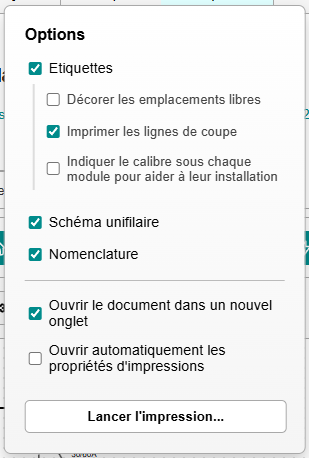
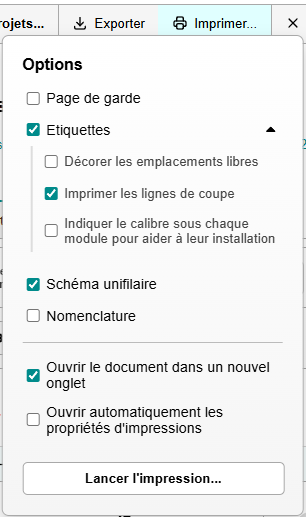
Bugs corrections and new github workflow for dev branch

diff --git a/src/App.jsx b/src/App.jsx
@@ -48,6 +48,8 @@ import cancelIcon from "./assets/cancel.svg";
 import info2Icon from "./assets/info2.svg";
 import numbersIcon from "./assets/numbers.svg";
 import themeSettingsIcon from "./assets/theme_settings.svg";
+import caretDownIcon from "./assets/caret-down.svg";
+import caretUpIcon from "./assets/caret-up.svg";
 
 import Editor from "./Editor.jsx";
 import NewProjectEditor from "./NewProjectEditor.jsx";
@@ -76,6 +78,7 @@ function App() {
     const [freeSpaceMessage, setFreeSpaceMessage] = useState("");
     const [clipboard, setClipboard] = useState(null);
     const [clipboardMode, setClipboardMode] = useState(null);
+    const [subMenus, setSubMenus] = useState({printLabelsOpened: false});
 
     const UIFrozen = useMemo(() => clipboard !== null, [clipboard]);
 
@@ -508,6 +511,7 @@ function App() {
         setPrintOptions({...defaultPrintOptions});
         setDocumentTitle(name);
         setTab(1);
+        setSubMenus(old => ({...old, printLabelsOpened: false}));
         scrollToProject();
 
         stats_count('new');
@@ -522,6 +526,7 @@ function App() {
         setDocumentTitle(defaultProjectName);
         setPrintOptions({...defaultPrintOptions});
         setTheme(defaultTheme);
+        setSubMenus(old => ({...old, printLabelsOpened: false}));
 
         createProject(defaultProjectName, defaultStepsPerRows, defaultNpRows, defaultHRow);
     }, [createProject, defaultHRow, defaultNpRows, defaultProjectName, defaultStepsPerRows, defaultTheme]);
@@ -610,6 +615,7 @@ function App() {
                     setClipboardMode(null);
                     setPrintOptions({...defaultPrintOptions});
                     setTab(1);
+                    setSubMenus(old => ({...old, printLabelsOpened: false}));
                     scrollToProject();
 
                     stats_count('import');
@@ -1465,7 +1471,7 @@ function App() {
                                    }))}/>
                             <label htmlFor="print_firstPage">Page de garde</label>
                         </div>
-                        <div className="dropdown_item head" title="Imprimer les étiquettes">
+                        <div className="dropdown_item head parent" title="Imprimer les étiquettes">
                             <input id="print_labels" name="print_labels" type="checkbox"
                                    checked={printOptions.labels}
                                    onChange={(e) => setPrintOptions((old) => ({
@@ -1473,41 +1479,49 @@ function App() {
                                        labels: e.target.checked
                                    }))}/>
                             <label htmlFor="print_labels">Etiquettes</label>
+                            {printOptions.labels &&
+                                <img src={subMenus.printLabelsOpened ? caretUpIcon : caretDownIcon} width={16}
+                                     height={16} alt={"Menu"} onClick={() => setSubMenus(old => ({
+                                    ...old,
+                                    printLabelsOpened: !old.printLabelsOpened
+                                }))}/>}
                         </div>
-                        <div className="dropdown_item"
-                             title="Imprimer la décoration sur les emplacements libres de chaque rangée d'étiquettes">
-                            <input id="print_free" name="print_free" type="checkbox"
-                                   checked={printOptions.freeModules}
-                                   onChange={(e) => setPrintOptions((old) => ({
-                                       ...old,
-                                       freeModules: e.target.checked
-                                   }))} disabled={!printOptions.labels}/>
-                            <label htmlFor="print_free">Décorer les emplacements libres</label>
-                        </div>
-                        <div className="dropdown_item"
-                             title="Imprimer les lignes de coupe pour cisailles et massicots">
-                            <input id="print_pdf_labelsCutLines" name="print_pdf_labelsCutLines" type="checkbox"
-                                   checked={printOptions.pdfOptions.labelsCutLines}
-                                   onChange={(e) => setPrintOptions((old) => ({
-                                       ...old,
-                                       pdfOptions: {...old.pdfOptions, labelsCutLines: e.target.checked}
-                                   }))} disabled={!printOptions.labels}/>
-                            <label htmlFor="print_pdf_labelsCutLines">Imprimer les lignes de coupe</label>
-                        </div>
-                        <div className="dropdown_item"
-                             title="Imprimer les calibres des modules pour aider à leurs mise en place (hors découpes)">
-                            <input id="print_pdf_printCurrents" name="print_pdf_printCurrents" type="checkbox"
-                                   checked={printOptions.pdfOptions.printCurrents}
-                                   onChange={(e) => setPrintOptions((old) => ({
-                                       ...old,
-                                       pdfOptions: {...old.pdfOptions, printCurrents: e.target.checked}
-                                   }))} disabled={!printOptions.labels}/>
-                            <label htmlFor="print_pdf_printCurrents">Indiquer le calibre sous chaque module pour aider à
-                                leur installation</label>
-                        </div>
+                        {subMenus.printLabelsOpened && printOptions.labels && <>
+                            <div className="dropdown_item"
+                                 title="Imprimer la décoration sur les emplacements libres de chaque rangée d'étiquettes">
+                                <input id="print_free" name="print_free" type="checkbox"
+                                       checked={printOptions.freeModules}
+                                       onChange={(e) => setPrintOptions((old) => ({
+                                           ...old,
+                                           freeModules: e.target.checked
+                                       }))} disabled={!printOptions.labels}/>
+                                <label htmlFor="print_free">Décorer les emplacements libres</label>
+                            </div>
+                            <div className="dropdown_item"
+                                 title="Imprimer les lignes de coupe pour cisailles et massicots">
+                                <input id="print_pdf_labelsCutLines" name="print_pdf_labelsCutLines" type="checkbox"
+                                       checked={printOptions.pdfOptions.labelsCutLines}
+                                       onChange={(e) => setPrintOptions((old) => ({
+                                           ...old,
+                                           pdfOptions: {...old.pdfOptions, labelsCutLines: e.target.checked}
+                                       }))} disabled={!printOptions.labels}/>
+                                <label htmlFor="print_pdf_labelsCutLines">Imprimer les lignes de coupe</label>
+                            </div>
+                            <div className="dropdown_item" style={{marginBottom: '1em'}}
+                                 title="Imprimer les calibres des modules pour aider à leurs mise en place (hors découpes)">
+                                <input id="print_pdf_printCurrents" name="print_pdf_printCurrents" type="checkbox"
+                                       checked={printOptions.pdfOptions.printCurrents}
+                                       onChange={(e) => setPrintOptions((old) => ({
+                                           ...old,
+                                           pdfOptions: {...old.pdfOptions, printCurrents: e.target.checked}
+                                       }))} disabled={!printOptions.labels}/>
+                                <label htmlFor="print_pdf_printCurrents">Indiquer le calibre sous chaque module pour
+                                    aider à
+                                    leur installation</label>
+                            </div>
+                        </>}
 
-                        <div className="dropdown_item head" title="Imprimer le schéma unifilaire"
-                             style={{marginTop: '1em'}}>
+                        <div className="dropdown_item head" title="Imprimer le schéma unifilaire">
                             <input id="print_schema" name="print_schema" type="checkbox"
                                    checked={printOptions.schema}
                                    onChange={(e) => setPrintOptions((old) => ({

diff --git a/src/Editor.jsx b/src/Editor.jsx
@@ -396,7 +396,6 @@ export default function Editor({
                                 <EditorWireSelector id={`editor_wire_${ed.currentModule.id.trim()}`}
                                                     value={ed.currentModule.wire}
                                                     onChange={(value) => {
-                                                        console.log(value)
                                                         onUpdateModuleEditor({wire: value})
                                                     }}
                                                     current={parseInt(ed.currentModule.current.replace(/\D/g, ''))}/>

diff --git a/src/app.css b/src/app.css
@@ -339,6 +339,11 @@ option[disabled] {
     filter: invert(100%) sepia(0%) saturate(0%) hue-rotate(309deg) brightness(103%) contrast(102%);
 }
 
+.button_group .dropdown_container .dropdown .dropdown_item.parent img {
+    cursor: pointer;
+    padding-inline: 0.25em;
+}
+
 .button_group .dropdown_container .dropdown .dropdown_separator {
     width: 100%;
     height: 1px;

diff --git a/public/api/toPdf.php b/public/api/toPdf.php
@@ -1378,7 +1378,7 @@ foreach ($flattenModules as $module) {
                 'text' => $module->text,
                 'desc' => $module->desc,
                 'pole' => $module->pole,
-                'wire' => $module->wire
+                'wire' => $module->wire ?? ''
             ]);
         }
     }
